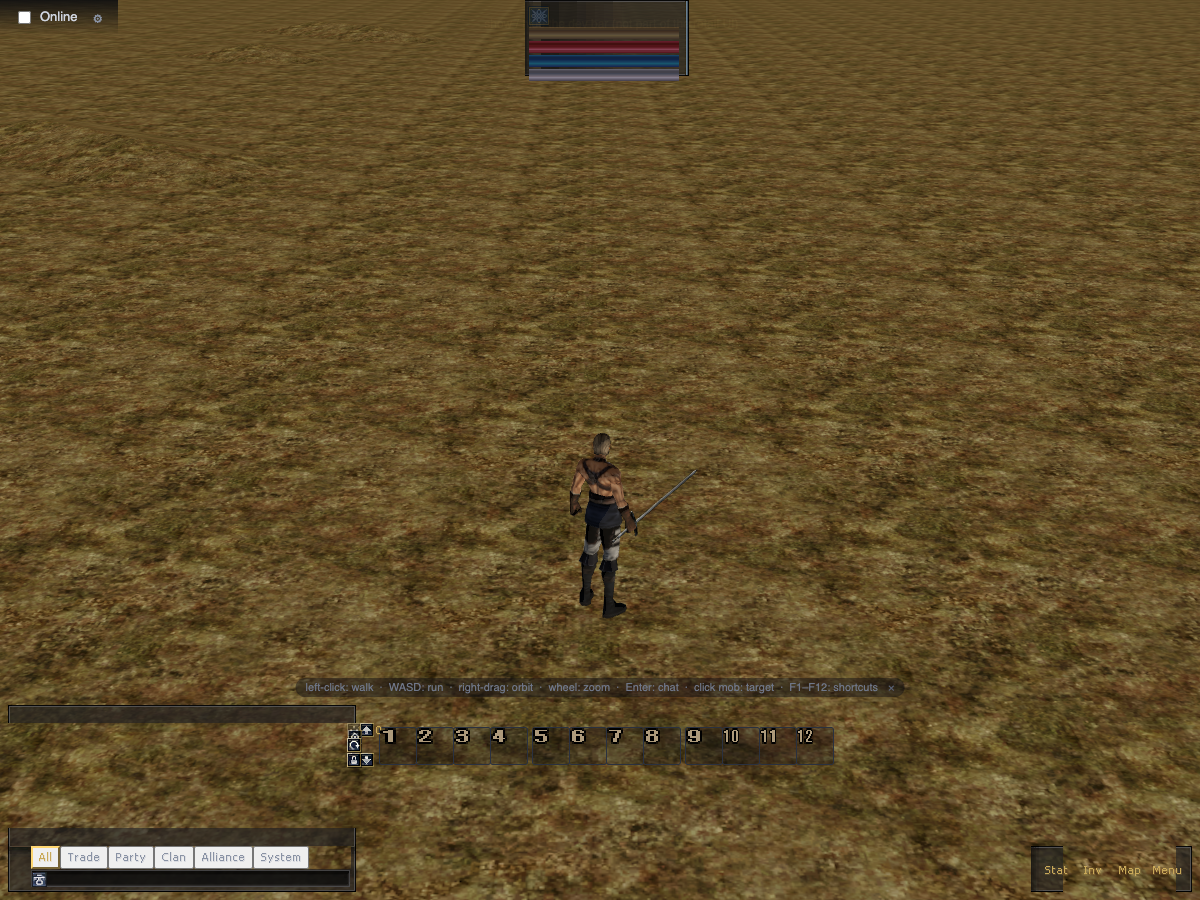
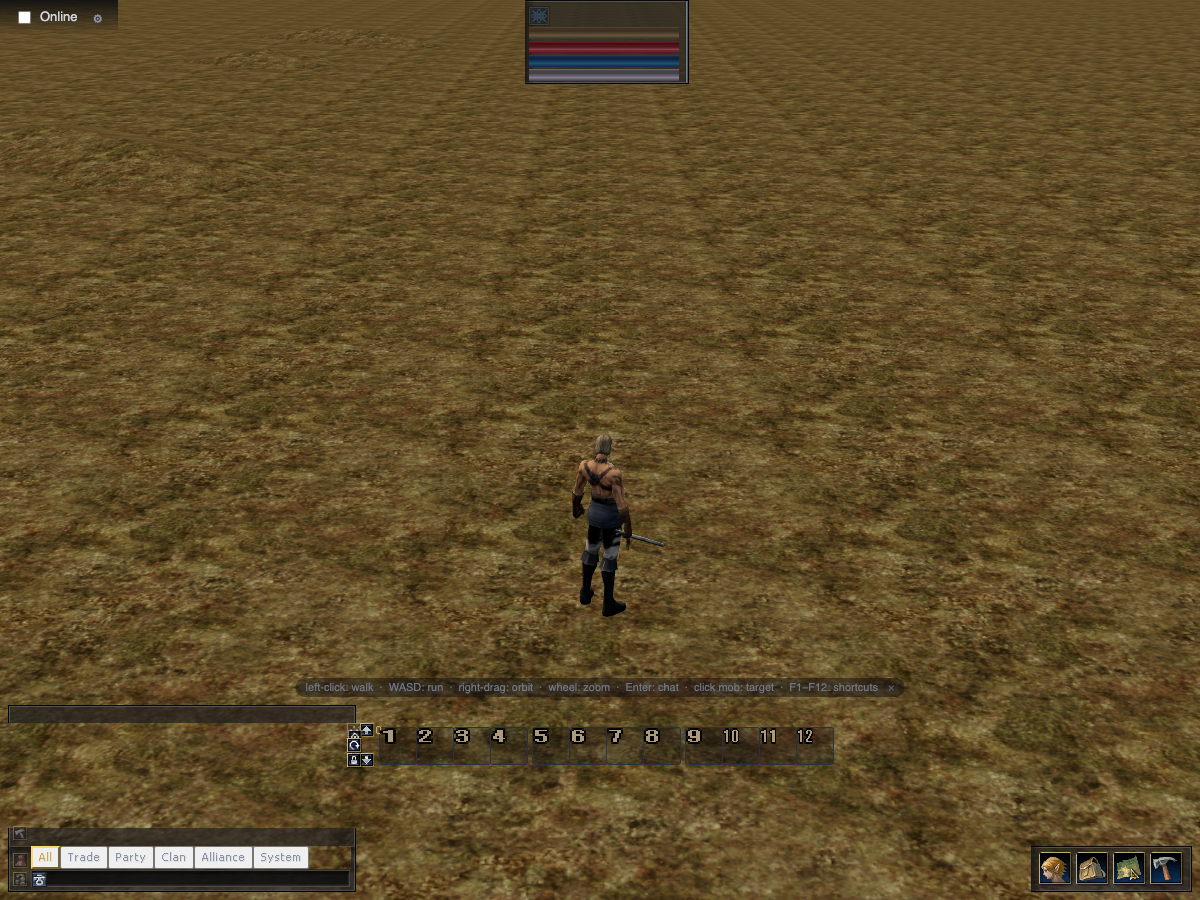
Wire the animation stances, and fold the xdat texture fix into the decoder
Two loose ends from the previous pass, both of which left the work built but
not actually reaching the screen.

STANCES. The per-weapon clips shipped last commit but nothing asked for them:
character.js still requested 'idle' and 'attack', so a character holding a
sword animated unarmed with a sword in its hand — the original complaint,
half-fixed. play()/oneShot() now resolve a logical name through the equipped
weapon's stance ('attack' -> 'atk01_1hs'), falling back to the unstanced clip
whenever retail does not ship that combination, which it often does not
(no Atk02 for Bow, no Dual SpAtk for elves). oneShot resolves before measuring
the hold time, since a 1HS swing and the unarmed one are different lengths.

The stance itself comes from equipment.js: weapongrp `handness` through the
mapping mined from NWindow.dll's own control enum. Changing weapon re-enters
the pose so the stance takes effect immediately rather than at the next state
change; idle is safe to re-enter even while walking, because update()'s moving
branch calls play() every frame and corrects it on the next one.

verify_equipment.js 12/12: a Bastard Sword selects idle_1hs/atk01_1hs, a
Claymore idle_2hs, unarmed stays on the unstanced clips, and the model carries
83 clips where it carried 14. Screenshot inspected — the character now stands
in the 1HS ready pose, sword lowered at the side.

XDAT. The byte-scan harvest is now in parse_xdat.py itself. It had lived in a
[…]

diff --git a/editor/world/js/character.js b/editor/world/js/character.js
@@ -4,7 +4,7 @@
 import * as THREE from 'three';
 import { GLTFLoader } from 'three/addons/loaders/GLTFLoader.js';
 import { L2_TO_M } from './coords.js';
-import { equipWeapon } from './equipment.js';
+import { equipWeapon, stanceFor } from './equipment.js';
 
 const CHAR_HEIGHT = 1.75;      // meters — fallback normalization (~1.7 charcreate)
 
@@ -46,6 +46,8 @@ export class Character {
     // rebuild the skeleton and the weapon has to be re-hung on the new sockets.
     this.weapon = { object: null, meshId: null };
     this.wantWeapon = 0;
+    // animation stance the equipped weapon calls for; 'hand' is unarmed
+    this.stance = 'hand';
   }
 
   // The equipped right-hand item id, straight from the server's paperdoll.
@@ -53,6 +55,15 @@ export class Character {
   // when load() finishes.
   setWeapon(itemId) {
     this.wantWeapon = itemId || 0;
+    const stance = stanceFor(this.wantWeapon);
+    if (stance !== this.stance) {
+      this.stance = stance;
+      // Re-enter the pose in the new stance, otherwise the character keeps
+      // standing unarmed until something else changes its state. Idle is safe
+      // even while walking: update()'s moving branch calls play() every frame
+      // and will correct it on the next one.
+      if (this.mixer && !this.emoteUntil) this.play('idle');
+    }
     if (!this.model) return Promise.resolve(null);
     return equipWeapon(this.model, this.wantWeapon, this.weapon);
   }
@@ -105,7 +116,26 @@ export class Character {
     return this;
   }
 
+  // Logical clip name -> the stanced clip the equipped weapon calls for.
+  //
+  // Retail names its sequences per weapon stance (Wait_1HS_MFighter,
+  // Run_Bow_MElf...), and the pipeline emits them as idle_1hs / run_bow /
+  // atk01_2hs alongside the original unstanced names. `attack` maps to atk01
+  // because that is the retail token; the rest keep their own.
+  //
+  // Falls back to the unstanced clip whenever a stance lacks one — retail
+  // genuinely does not ship every combination (no Atk02 for Bow, no Dual
+  // SpAtk for elves), so a miss here is data, not an error.
+  _clip(name) {
+    const stance = this.stance;
+    if (!stance || stance === 'hand') return name;
+    const token = name === 'attack' ? 'atk01' : name;
+    const stanced = `${token}_${stance}`;
+    return this.actions[stanced] ? stanced : name;
+  }
+
   play(name, fade = 0.25) {
+    name = this._clip(name);
     const next = this.actions[name] || this.actions.idle;
     if (!next || next === this.current) return;
     next.reset().setEffectiveWeight(1).fadeIn(fade).play();
@@ -123,9 +153,12 @@ export class Character {
   // Play a clip once for its own duration (skill cast gestures, emotes).
   // The update() idle/sit fallback stays suppressed via emoteUntil.
   oneShot(name, fade = 0.1) {
-    const clip = this.actions[name];
+    // resolve the stance here too, so the hold time matches the clip that
+    // actually plays — a 1HS swing and the unarmed one are different lengths
+    const resolved = this._clip(name);
+    const clip = this.actions[resolved];
     if (!clip) return;
-    this.play(name, fade);
+    this.play(resolved, fade);
     this.emoteUntil = performance.now() + clip.getClip().duration * 1000;
   }
 

diff --git a/editor/world/js/equipment.js b/editor/world/js/equipment.js
@@ -28,11 +28,13 @@ import { GLTFLoader } from 'three/addons/loaders/GLTFLoader.js';
 
 const WEAPON_BASE = '/characters/weapons/';
 const MESH_INDEX_URL = '/gamedata/weaponmesh.json';
+const STANCES_URL = '/characters/stances.json';
 
 const loader = new GLTFLoader();
 
 let _index = null;      // { meshes[], textures[], items: {itemId: {m,t,h,w}} }
 let _manifest = null;   // { meshId: entry }
+let _stances = null;    // { no_weapon, by_handness: {h: {stance}} }
 let _ready = null;
 
 export function equipmentReady() { return _ready; }
@@ -41,10 +43,14 @@ export async function loadEquipment() {
   if (_ready) return _ready;
   _ready = (async () => {
     try {
-      const [idx, man] = await Promise.all([
+      const [idx, man, st] = await Promise.all([
         fetch(MESH_INDEX_URL).then(r => r.ok ? r.json() : Promise.reject(new Error(`HTTP ${r.status}`))),
         fetch(WEAPON_BASE + 'manifest.json').then(r => r.ok ? r.json() : Promise.reject(new Error(`HTTP ${r.status}`))),
+        // Optional: without it every character just keeps the unarmed stance,
+        // which is what the client did before stances existed.
+        fetch(STANCES_URL).then(r => r.ok ? r.json() : null).catch(() => null),
       ]);
+      _stances = st;
       _index = idx;
       _manifest = {};
       for (const m of (man.models || [])) _manifest[m.id.toLowerCase()] = m;
@@ -72,6 +78,22 @@ export function weaponInfo(itemId) {
   // package prefix because that is how weapongrp writes it.
   const mesh = full.includes('.') ? full.slice(full.indexOf('.') + 1) : full;
   return { mesh, handness: rec.h || 1, weaponType: rec.w || 0 };
+}
+
+// Which animation stance a weapon puts a character in.
+//
+// The mapping is the retail client's own: NWindow.dll's NCPawnViewerWnd lists
+// 7(DUALFIST) 5(BOW) 4(POLE) 3(DUAL) 2(2HS) 1(1HS) 0(HAND), and those numbers
+// are weapongrp's `handness` — the domains match 1:1. `weapon_type` is a
+// DIFFERENT domain (DUAL is 8 there, BOW 6), so it is not what the enum counts.
+// Two rows of the table are marked unsourced upstream and fall back to `hand`.
+export function stanceFor(itemId) {
+  if (!_stances) return 'hand';
+  if (!itemId) return _stances.no_weapon || 'hand';
+  const info = weaponInfo(itemId);
+  if (!info) return _stances.no_weapon || 'hand';
+  const row = _stances.by_handness && _stances.by_handness[String(info.handness)];
+  return (row && row.stance) || _stances.no_weapon || 'hand';
 }
 
 const _cache = new Map();   // meshId -> Promise<THREE.Object3D|null>

diff --git a/editor/world/verify_equipment.js b/editor/world/verify_equipment.js
@@ -107,6 +107,32 @@ const check = (name, ok, detail = '') => {
   check('unequipping clears the hand', bare.name === null && bare.children === 0,
         `children=${bare.children}`);
 
+  // --- stance ---------------------------------------------------------------
+  // The clips are per weapon stance (Wait_1HS_MFighter and friends). Holding a
+  // sword must actually select them, or the character stands unarmed with a
+  // sword in its hand — which is what play testing reported.
+  const stance = await page.evaluate(async (ids) => {
+    const ch = window.__world.character;
+    const out = {};
+    for (const [label, id] of Object.entries(ids)) {
+      await ch.setWeapon(id);
+      out[label] = { stance: ch.stance, idle: ch._clip('idle'), attack: ch._clip('attack') };
+    }
+    out.clips = Object.keys(ch.actions).length;
+    out.has1hs = !!ch.actions.idle_1hs;
+    return out;
+  }, { unarmed: 0, sword: ONE_HAND, claymore: TWO_HAND });
+
+  check('model carries the stanced clip set', stance.clips > 20 && stance.has1hs,
+        `${stance.clips} clips, idle_1hs=${stance.has1hs}`);
+  check('unarmed uses the hand stance', stance.unarmed.stance === 'hand'
+        && stance.unarmed.idle === 'idle', JSON.stringify(stance.unarmed));
+  check('a one-handed sword selects the 1HS stance', stance.sword.stance === '1hs'
+        && stance.sword.idle === 'idle_1hs' && stance.sword.attack === 'atk01_1hs',
+        JSON.stringify(stance.sword));
+  check('a two-handed sword selects the 2HS stance', stance.claymore.stance === '2hs'
+        && stance.claymore.idle === 'idle_2hs', JSON.stringify(stance.claymore));
+
   // Put it back on and photograph it — the numbers above cannot tell us it
   // looks right, only that it is present and untransformed.
   await equip(ONE_HAND);

diff --git a/tools/ui/mine_texrefs.py b/tools/ui/mine_texrefs.py
@@ -1,12 +1,27 @@
 #!/usr/bin/env python3
-"""Re-harvest the texture references out of Interface.xdat (phase-safe).
+"""Guard the texture references harvested out of Interface.xdat.
 
-WHY THIS EXISTS
----------------
+WHAT THIS IS NOW
+----------------
+This began as a fix: it re-harvested the references that `parse_xdat.py` was
+dropping, because that file was not ours to edit at the time. The byte-scan
+has since been folded into `parse_xdat.py` itself, so the decoder no longer
+loses anything and this script now recovers ZERO — which is exactly the point.
+It is kept as the regression gate for that fix: `--check` re-derives the
+harvest independently and fails if the decoder ever starts missing references
+again, plus it asserts nine per-control texture guards (the status gauge
+fills, the menu button art, the chat body) that name the specific sprites
+whose loss was visible on screen.
+
+If `--check` ever reports a non-zero recovery count, `parse_xdat.py` has
+regressed to a phase-losing harvest; the explanation below is why that matters.
+
+THE BUG IT GUARDS AGAINST
+-------------------------
 `tools/xdat/parse_xdat.py` anchors records by their header shape and then
-collects the texture names living in each record's span by *walking* the span
-as a string stream: read a string, jump to its end, and when a byte is not a
-string start, step forward 4 bytes.
+collects the texture names living in each record's span. It used to *walk* the
+span as a string stream: read a string, jump to its end, and when a byte is not
+a string start, step forward 4 bytes.
 
 That walk loses phase. A record body begins with int32 fields, so the walk
 starts in `p += 4` mode; whenever a variable-length field pushes the stream off

diff --git a/tools/xdat/parse_xdat.py b/tools/xdat/parse_xdat.py
@@ -251,15 +251,22 @@ def scan(data):
     for i, rec in enumerate(records):
         end = records[i + 1]["off"] if i + 1 < len(records) else len(data)
         rec["end"] = end
-        refs, p = [], rec["body"]
-        while p < end:
+        # Try EVERY byte offset, not a walk. A walk has to advance by a fixed
+        # stride wherever a string does not parse, and record bodies open with
+        # int32s, so a 4-byte stride starts off the string lattice and steps
+        # straight over anything that is not aligned to it. Measured on the
+        # shipped Interface.xdat, that silently lost at least one texture in
+        # 156 of 1,962 records — including every gauge FILL sprite
+        # (ps_hpbar, ps_mpbar, ps_cpbar), which is why the status bars rendered
+        # as flat coloured stripes: only the *_back empty plate survived, and
+        # the port used the empty plate as the fill. A byte scan recovers 192
+        # references, 133 of the 138 distinct names resolving to PNGs umodel
+        # had already exported — chance would give ~0.
+        refs = []
+        for p in range(rec["body"], end):
             got = r.string(p)
-            if got and got[0] and got[1] <= end:
-                if TEXREF.match(got[0]):
-                    refs.append(got[0])
-                p = got[1]
-            else:
-                p += 4
+            if got and got[0] and got[1] <= end and TEXREF.match(got[0]):
+                refs.append(got[0])
         # preserve order, drop repeats
         rec["textures"] = list(dict.fromkeys(refs))
 
